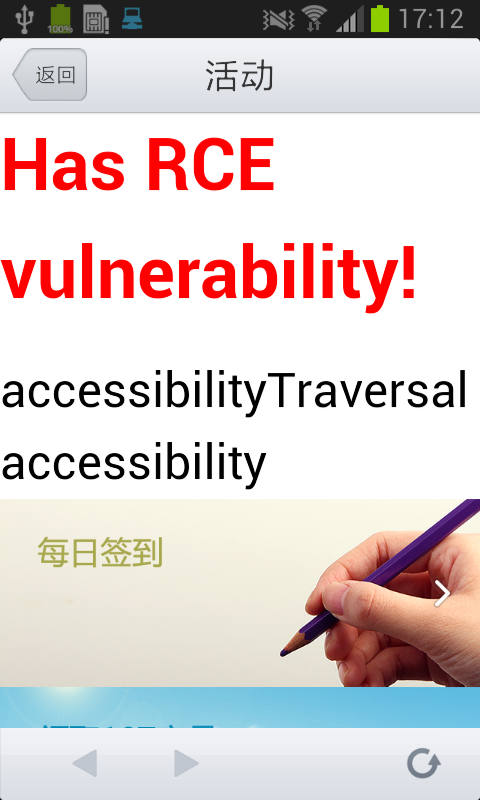
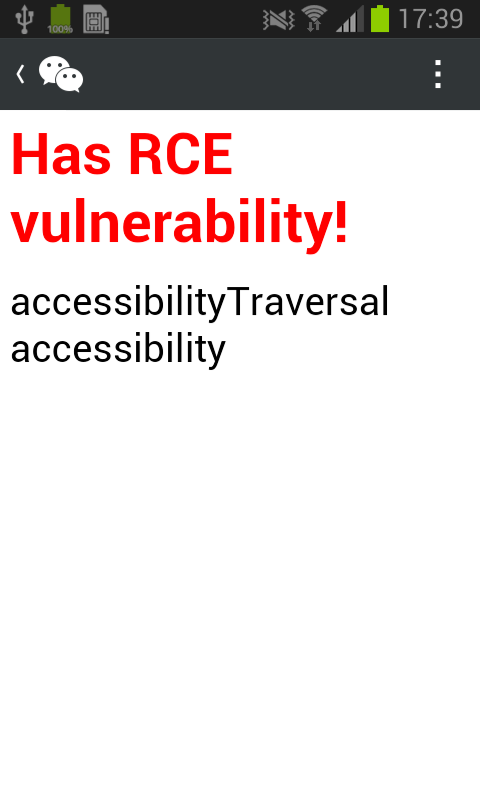
replace the pic with WeChat demo

diff --git a/news/newattackvector.html b/news/newattackvector.html
@@ -38,7 +38,7 @@ Today we identify two new attack vectors, "accessibility" and "accessibilityTrav
 </p>
 
 <p>
-<b>Consequence:</b> as demoed in the last two figures, it causes an originally protected app become vulnerable.
+<b>Consequence:</b> it causes an originally protected app vulnerable. As demoed in the last two figures, the originally secure 360 Mobile Safe and Wechat apps now become vulnerable (when we open the system accessibility service).
 </p>
 
 <p>
